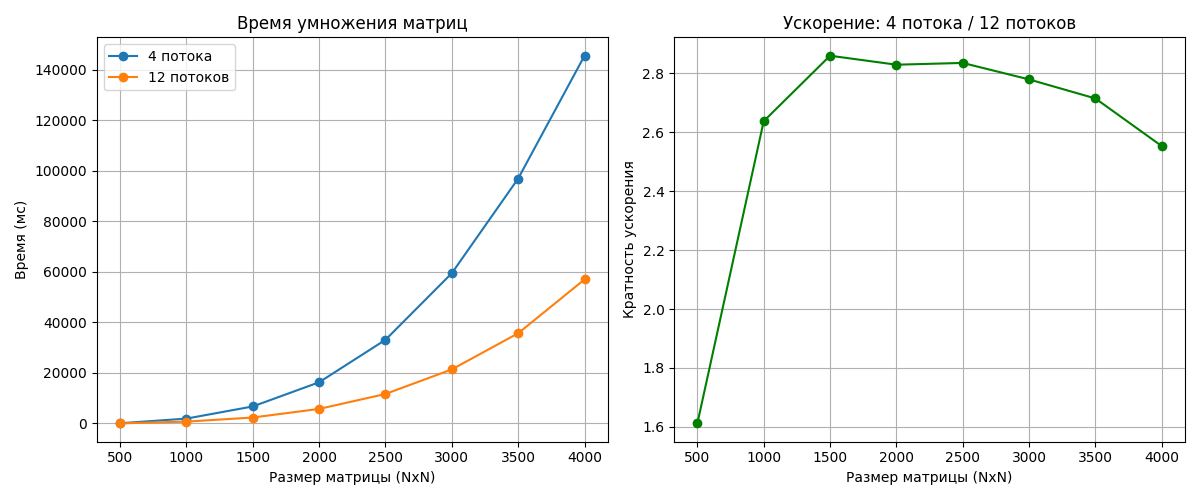
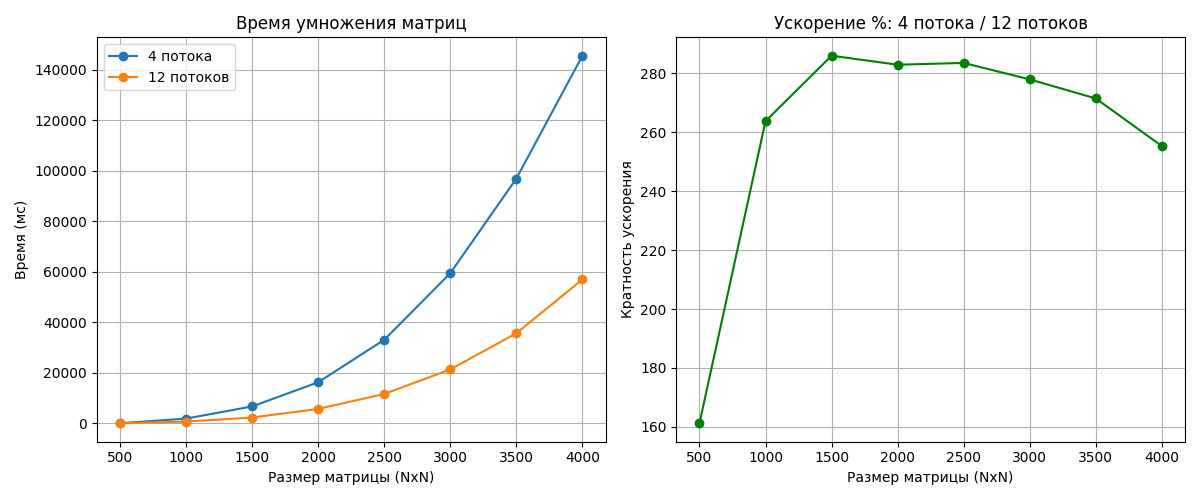
priority_error

diff --git a/Lab_3/korolev/graphicks.py b/Lab_3/korolev/graphicks.py
@@ -16,11 +16,11 @@ plt.ylabel('Время (мс)')
 plt.legend()
 plt.grid(True)
 
-speedup = [m4 / m12 for m4, m12 in zip(mean_4, mean_12)]
+speedup = [m4 / m12 * 100 for m4, m12 in zip(mean_4, mean_12)]
 
 plt.subplot(1, 2, 2)
 plt.plot(sizes, speedup, marker='o', color='green')
-plt.title('Ускорение: 4 потока / 12 потоков')
+plt.title('Ускорение %: 4 потока / 12 потоков')
 plt.xlabel('Размер матрицы (NxN)')
 plt.ylabel('Кратность ускорения')
 plt.grid(True)
